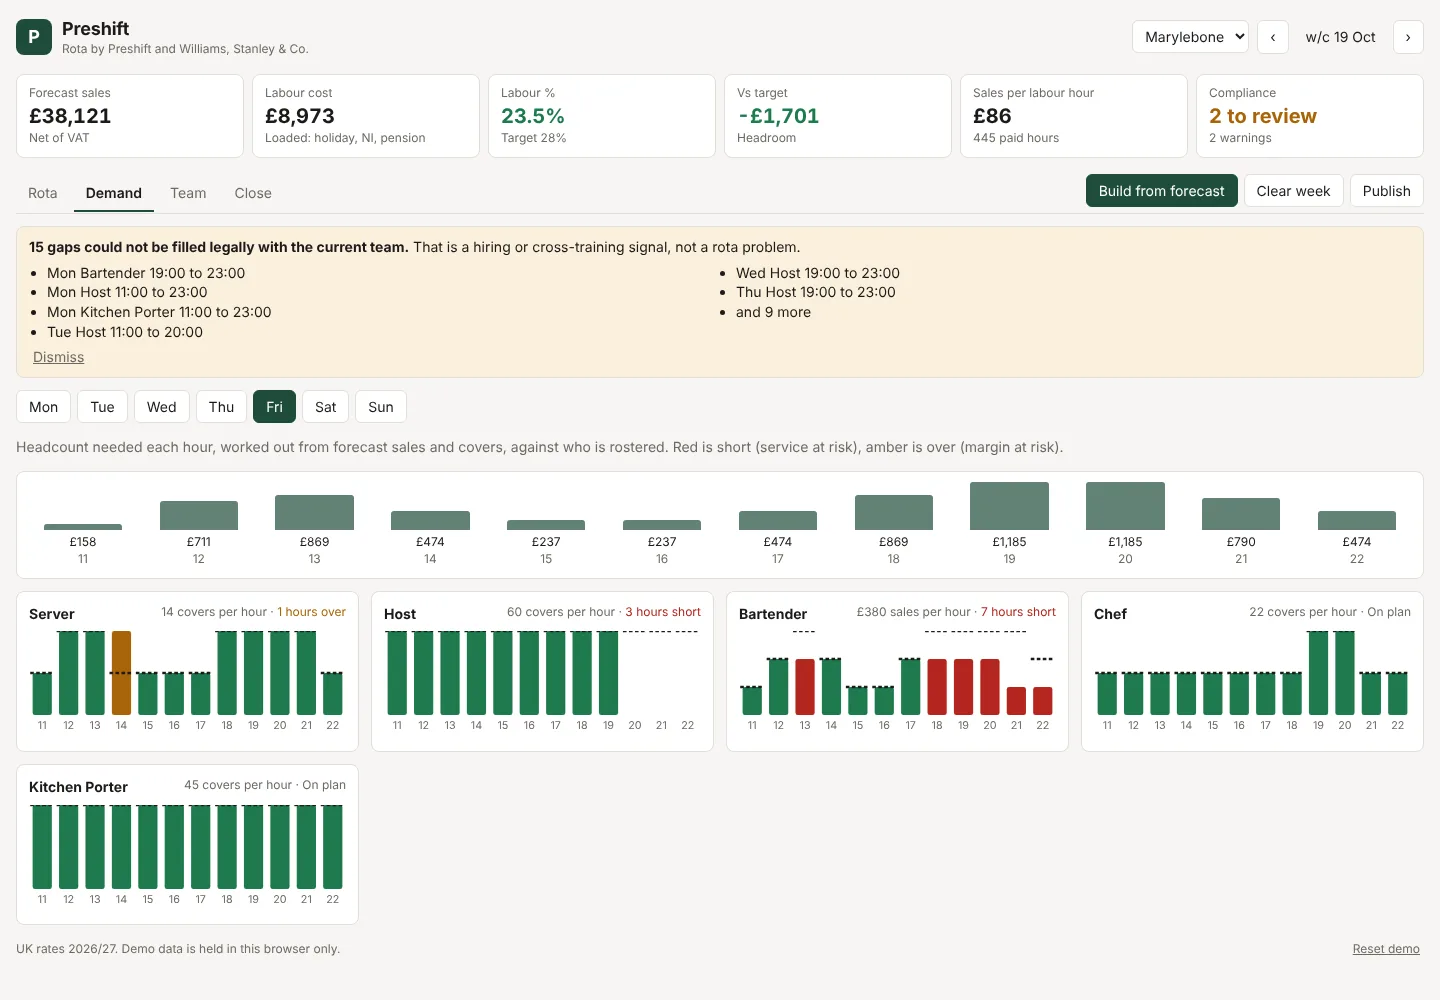
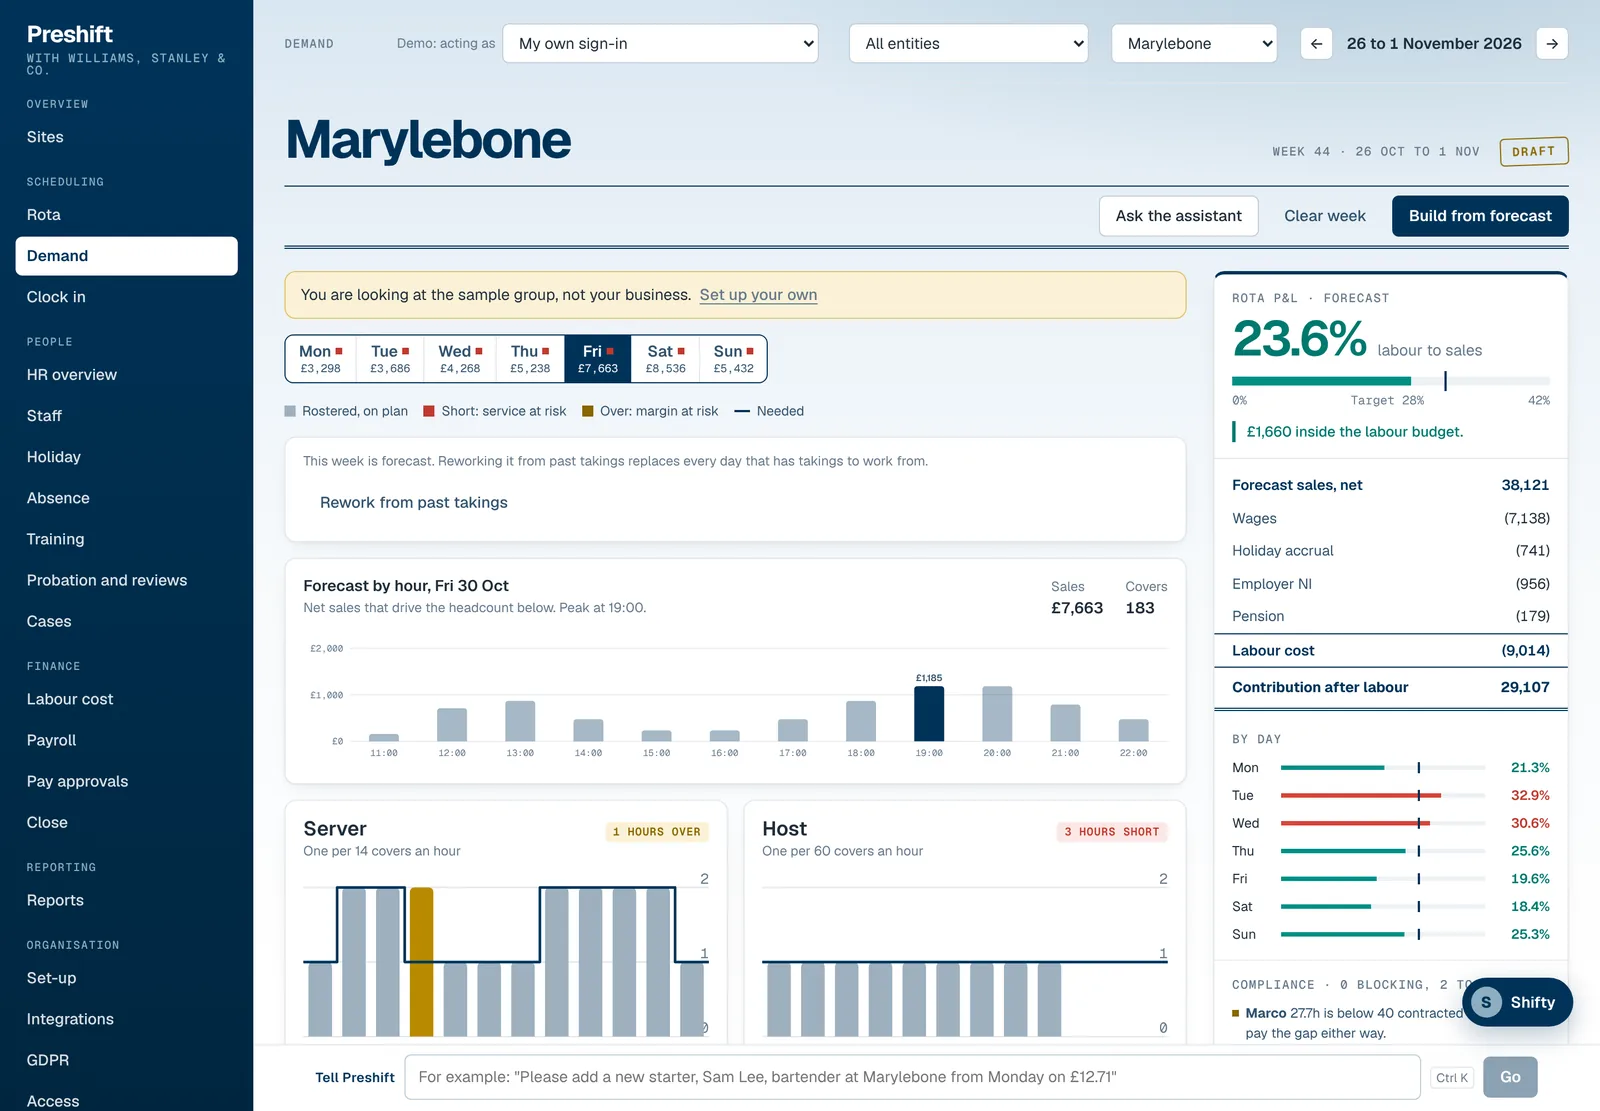
Refresh the home page product screens for the current app
The viewer showed the original rota UI. Replace it with seven screens
captured from the current app (WS navy restyle): group P&L, the rota
service timeline, the shift editor, demand, payroll, close and HR. Tabs
gain arrow key navigation and the screens preload after page load. The
site README says how to recapture them when the app changes.

Claude-Session: https://claude.ai/code/session_015dUqVYtZRhRC1n8eAQv6U2

diff --git a/site/main.js b/site/main.js
@@ -18,37 +18,74 @@ links.addEventListener('click', (e) => {
 
 // Product screen tabs
 const shots = {
-  rota: {
-    alt: 'Preshift Rota weekly grid with forecast sales, loaded labour cost, labour percentage against target and compliance flags',
+  sites: {
+    alt: 'Group view of three sites across two companies: forecast sales, loaded labour, labour percentage against target, and the group rota P&L',
     caption:
-      'The week at a glance: forecast sales, fully loaded labour, labour % against the site target and anything that needs a second look before you publish.',
+      'Every site and company on one page: forecast sales, fully loaded labour and labour % against target, with the group rota P&L down to contribution after labour.',
   },
-  demand: {
-    alt: 'Demand view showing hourly forecast sales and covers converted into required headcount per role',
+  rota: {
+    alt: "Rota service timeline for Marylebone: each day's shifts over its sales curve, hours short or over beneath, day labour percentage and the rota P&L",
     caption:
-      'Hourly sales and covers turned into headcount per role, with the rules that drive it. This is the brief the build has to meet.',
+      "Each day's shifts laid over its sales curve, with the hours short or over beneath and the day's labour % beside it. Drag a shift to move it; the rota P&L on the right updates as you go.",
   },
   editor: {
-    alt: 'Shift editor showing the marginal cost a shift adds to the week, split into pay, holiday, NI and pension',
+    alt: 'Shift editor showing what a shift adds to the week, here nothing because it is covered by guaranteed hours already paid',
     caption:
-      'The shift editor shows what a shift adds to the week, not rate times hours, and flags any rule it would break before you save it.',
+      'The shift editor shows what a shift adds to the week, not rate times hours. This one adds nothing: it sits inside guaranteed hours you already pay for.',
+  },
+  demand: {
+    alt: 'Demand view: hourly forecast sales and covers for one day, and the headcount each role needs against what is rostered',
+    caption:
+      'Hourly sales and covers turned into headcount per role, with where the rota runs over or short. This is the brief the build has to meet.',
+  },
+  payroll: {
+    alt: 'Payroll view: people set up in TeamPay, clocked hours, manager approval, hours sent and the pay run back, with shifts below the legal break minimum listed',
+    caption:
+      'From clocked hours to TeamPay and back: approve, send, and reconcile the pay run to the accrual. Shifts below the legal break minimum are listed for a manager to check first.',
   },
   close: {
-    alt: 'Close view showing the labour accrual journal by role nominal and site tracking category, ready for Xero',
+    alt: 'Close view: labour accrual journals, Employment Allowance used against employer NI, and cross-site labour recharges',
     caption:
-      'Publish the rota and the labour accrual is ready to post: by role nominal and site, in Xero manual journal format, with hours for payroll.',
+      'The labour accrual journal for each company, ready to post before payroll runs, with Employment Allowance and cross-site recharges worked out for you.',
+  },
+  hr: {
+    alt: 'HR overview: headcount, staff turnover, absence and a list of HR actions to close',
+    caption:
+      'Headcount, turnover and absence for the site, and every open HR action in one list: return to work conversations, expiring licences, missing contracts.',
   },
 };
+const tabs = [...document.querySelectorAll('.shot-tabs [role="tab"]')];
 const img = document.getElementById('shot-img');
+const panel = document.getElementById('shot-panel');
 const caption = document.getElementById('shot-caption');
-document.querySelectorAll('.shot-tabs button').forEach((btn) => {
-  btn.addEventListener('click', () => {
-    const key = btn.dataset.shot;
-    document.querySelectorAll('.shot-tabs button').forEach((b) => b.setAttribute('aria-selected', String(b === btn)));
-    img.src = `img/${key}.webp`;
-    img.alt = shots[key].alt;
-    caption.textContent = shots[key].caption;
+
+function selectShot(tab, focus = false) {
+  const key = tab.dataset.shot;
+  for (const t of tabs) {
+    const on = t === tab;
+    t.setAttribute('aria-selected', String(on));
+    t.tabIndex = on ? 0 : -1;
+  }
+  img.src = `img/${key}.webp`;
+  img.alt = shots[key].alt;
+  caption.textContent = shots[key].caption;
+  panel.setAttribute('aria-labelledby', tab.id);
+  if (focus) tab.focus();
+}
+
+tabs.forEach((tab, i) => {
+  tab.addEventListener('click', () => selectShot(tab));
+  tab.addEventListener('keydown', (e) => {
+    const next = { ArrowRight: i + 1, ArrowLeft: i - 1, Home: 0, End: tabs.length - 1 }[e.key];
+    if (next === undefined) return;
+    e.preventDefault();
+    selectShot(tabs[(next + tabs.length) % tabs.length], true);
   });
+});
+
+// Load the other screens once the page has settled, so switching tabs is instant.
+window.addEventListener('load', () => {
+  for (const key of Object.keys(shots)) new Image().src = `img/${key}.webp`;
 });
 
 // Reveal on scroll

diff --git a/site/index.html b/site/index.html
@@ -154,24 +154,27 @@
             <div class="shot-bar">
               <i></i><i></i><i></i>
               <div class="shot-tabs" role="tablist" aria-label="Product screens">
-                <button role="tab" aria-selected="true" data-shot="rota">Rota</button>
-                <button role="tab" aria-selected="false" data-shot="demand">Demand</button>
-                <button role="tab" aria-selected="false" data-shot="editor">Shift editor</button>
-                <button role="tab" aria-selected="false" data-shot="close">Close</button>
+                <button role="tab" id="tab-sites" aria-controls="shot-panel" aria-selected="false" tabindex="-1" data-shot="sites">Group P&amp;L</button>
+                <button role="tab" id="tab-rota" aria-controls="shot-panel" aria-selected="true" tabindex="0" data-shot="rota">Rota</button>
+                <button role="tab" id="tab-editor" aria-controls="shot-panel" aria-selected="false" tabindex="-1" data-shot="editor">Shift editor</button>
+                <button role="tab" id="tab-demand" aria-controls="shot-panel" aria-selected="false" tabindex="-1" data-shot="demand">Demand</button>
+                <button role="tab" id="tab-payroll" aria-controls="shot-panel" aria-selected="false" tabindex="-1" data-shot="payroll">Payroll</button>
+                <button role="tab" id="tab-close" aria-controls="shot-panel" aria-selected="false" tabindex="-1" data-shot="close">Close</button>
+                <button role="tab" id="tab-hr" aria-controls="shot-panel" aria-selected="false" tabindex="-1" data-shot="hr">HR</button>
               </div>
             </div>
-            <div class="shot-frame">
+            <div class="shot-frame" id="shot-panel" role="tabpanel" aria-labelledby="tab-rota">
               <img
                 id="shot-img"
                 src="img/rota.webp"
-                width="1440"
-                height="1000"
-                alt="Preshift Rota weekly grid with forecast sales, loaded labour cost, labour percentage against target and compliance flags"
+                width="1600"
+                height="1111"
+                alt="Rota service timeline for Marylebone: each day's shifts over its sales curve, hours short or over beneath, day labour percentage and the rota P&amp;L"
               />
             </div>
             <p class="shot-caption" id="shot-caption">
-              The week at a glance: forecast sales, fully loaded labour, labour % against the site target and anything that
-              needs a second look before you publish.
+              Each day's shifts laid over its sales curve, with the hours short or over beneath and the day's labour % beside
+              it. Drag a shift to move it; the rota P&amp;L on the right updates as you go.
             </p>
           </div>
 

diff --git a/site/styles.css b/site/styles.css
@@ -475,7 +475,7 @@ section {
 .shot-frame img {
   width: 100%;
   height: auto;
-  aspect-ratio: 1440 / 1000;
+  aspect-ratio: 1600 / 1111;
   object-fit: cover;
   object-position: top;
 }

diff --git a/site/README.md b/site/README.md
@@ -7,7 +7,7 @@ coral accents, Bricolage Grotesque with Instrument Serif italics, JetBrains Mono
 site/index.html   Page
 site/styles.css   Styles
 site/main.js      Mobile nav, screen tabs, scroll reveal, true cost calculator
-site/img          Product screens (webp, from docs/screens)
+site/img          Product screens for the viewer on the home page (webp, 1600 x 1111)
 ```
 
 Preview locally:
@@ -22,3 +22,9 @@ root README): the marketing site is served at `/`, the web app at `/app/` and th
 The true cost calculator in `main.js` mirrors `employeeWeekCost` in `src/engine/cost.ts`.
 When the statutory rates in `src/engine/ukRates.ts` change each April, update the `RATES`
 block in `main.js` and the figures in the page copy to match.
+
+To refresh the product screens after the app changes: run `npm run dev`, sign in with the local
+development login it prints, build a full future week from the forecast, and capture each view at
+1440 x 1000 (2x) with the site set to Marylebone and any notices dismissed. Save them to `site/img`
+under the same names as WebP at 1600 x 1111, and update the alt text and captions in `main.js`.
+
